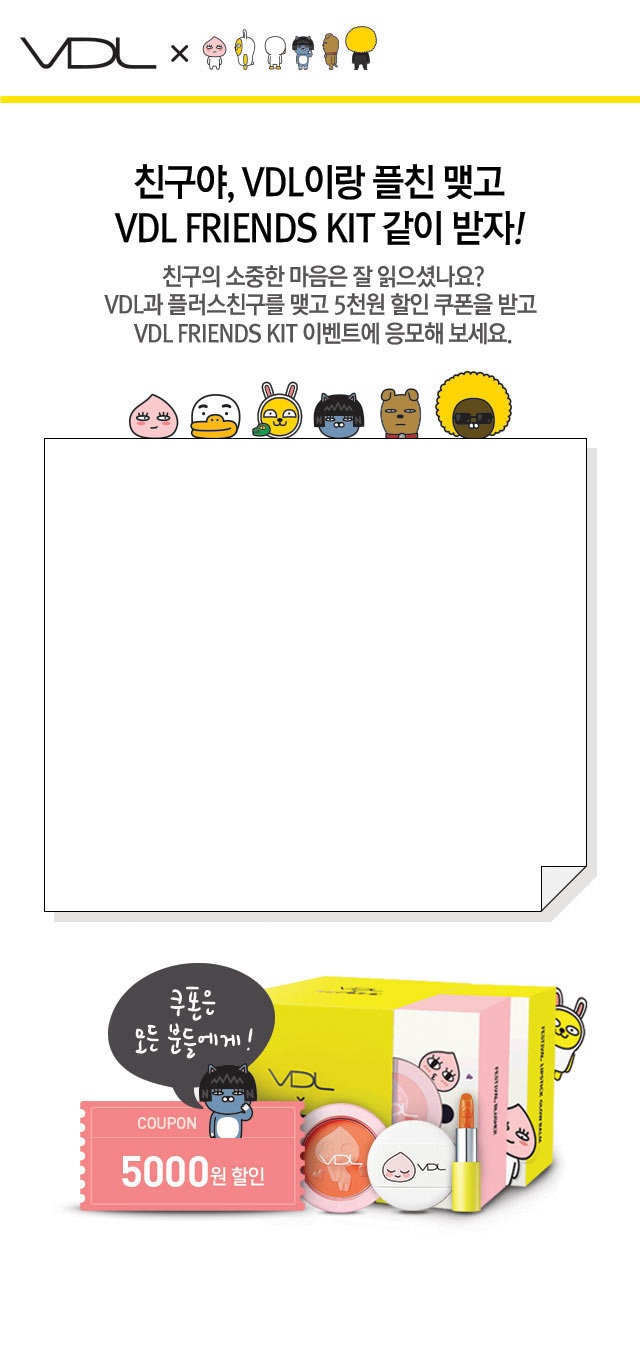
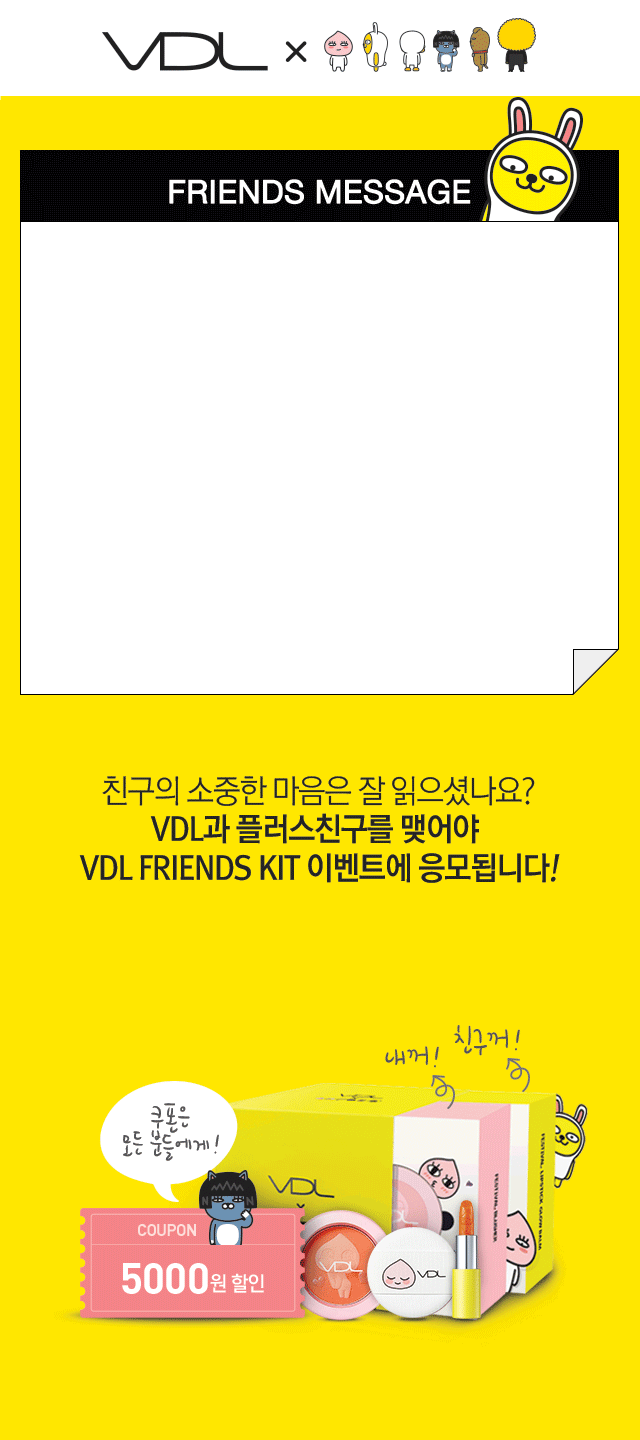
자잘한 수정

diff --git a/MOBILE/css/style.css b/MOBILE/css/style.css
@@ -282,7 +282,9 @@
 	width:80%;
 }
 
-
+.bg_mms{
+	background:#fee600;
+}
 .block_mms_received{
 	width:100%;
 	position:relative;
@@ -290,12 +292,14 @@
 }
 .block_mms_received .mms{
 	position:absolute;
-	top:34%;
-	left:17%;
-	width:66%;
+	top:17%;
+	left:10%;
+	width:80%;
 	height:27%;
 	line-height:18px;
 	font-size:15px;
+	font-family:Gotham, "Helvetica Neue", Helvetica, Arial, sans-serif;
+	letter-spacing:-1px;
 }
 .block_mms_received img{
 	width:100%;
@@ -319,18 +323,19 @@
 .block_mms_received .mms .title_from .label,
 .block_mms_received .mms .title_from .txt{
 	float:left;
-	width:18%;
+	width:19%;
 }
 .block_mms_received .mms .title_to .txt,
 .block_mms_received .mms .title_from .txt{
-	width:82%;
+	float:left;
+	width:77%;
 	border-bottom:1px solid #000;
 }
 .block_mms_received .mms .title_to .label{
 	width:12%;
 }
 .block_mms_received .mms .title_to .txt{
-	width:88%;
+	width:86%;
 }
 
 
@@ -351,7 +356,7 @@
 	position:absolute;
 	width:100%;
 	text-align:center;
-	bottom:5%;
+	bottom:33%;
 }
 .block_mms_received .btn_block img{
 	width:90%;

diff --git a/MOBILE/m_message.html b/MOBILE/m_message.html
@@ -13,13 +13,13 @@ initial-scale=1.0, maximum-scale=3.0"/>
 
 </head>
 
-<body>
+<body class="bg_mms">
 	<div class="block_mms_received">
     	<div class="mms">
         	<div class="inner_mms">
                 <div class="title_to clearfix">
                 	<div class="label">TO.</div>
-                	<div class="txt">안녕방구친구야</div>
+                	<div class="txt">안녕방구친구야안녕방구친구야친구친구</div>
                 </div>
                 <div class="title_mss">
 			    개인정보 수집 · 이용에 대한 동의<br>
@@ -35,7 +35,7 @@ initial-scale=1.0, maximum-scale=3.0"/>
                 </div>
             </div>
         </div>
-        <div class="btn_block"><img src="images/btn_plus_go.png" /></div>
+        <div class="btn_block"><a href="#"><img src="images/btn_plus_go.png" /></a></div>
     	<div class="img_mms_bg"><img src="images/bg_mss.jpg" /></div>
     </div>
 
